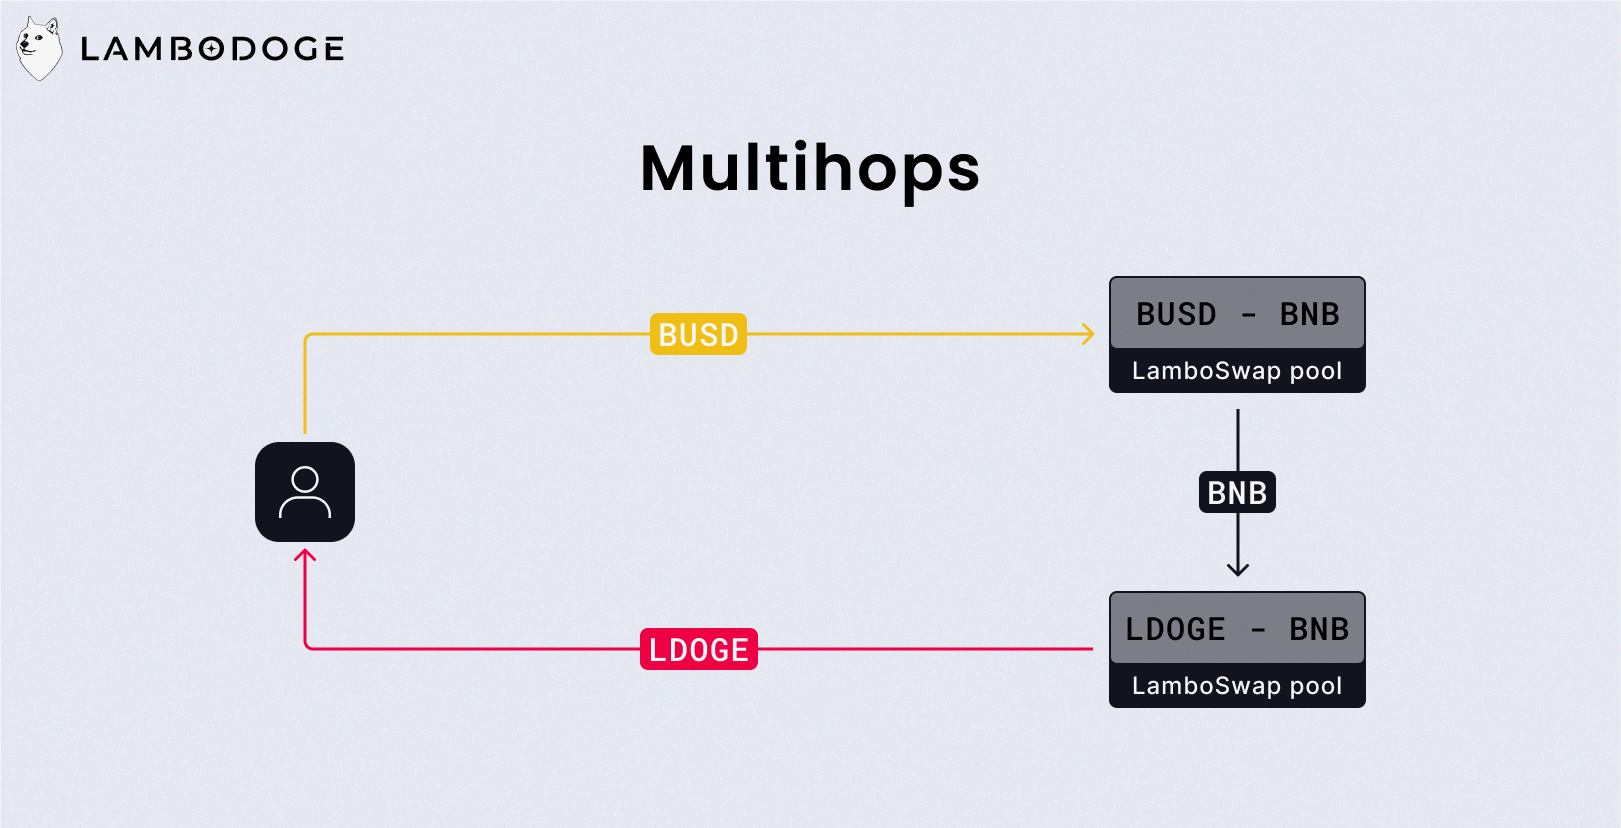
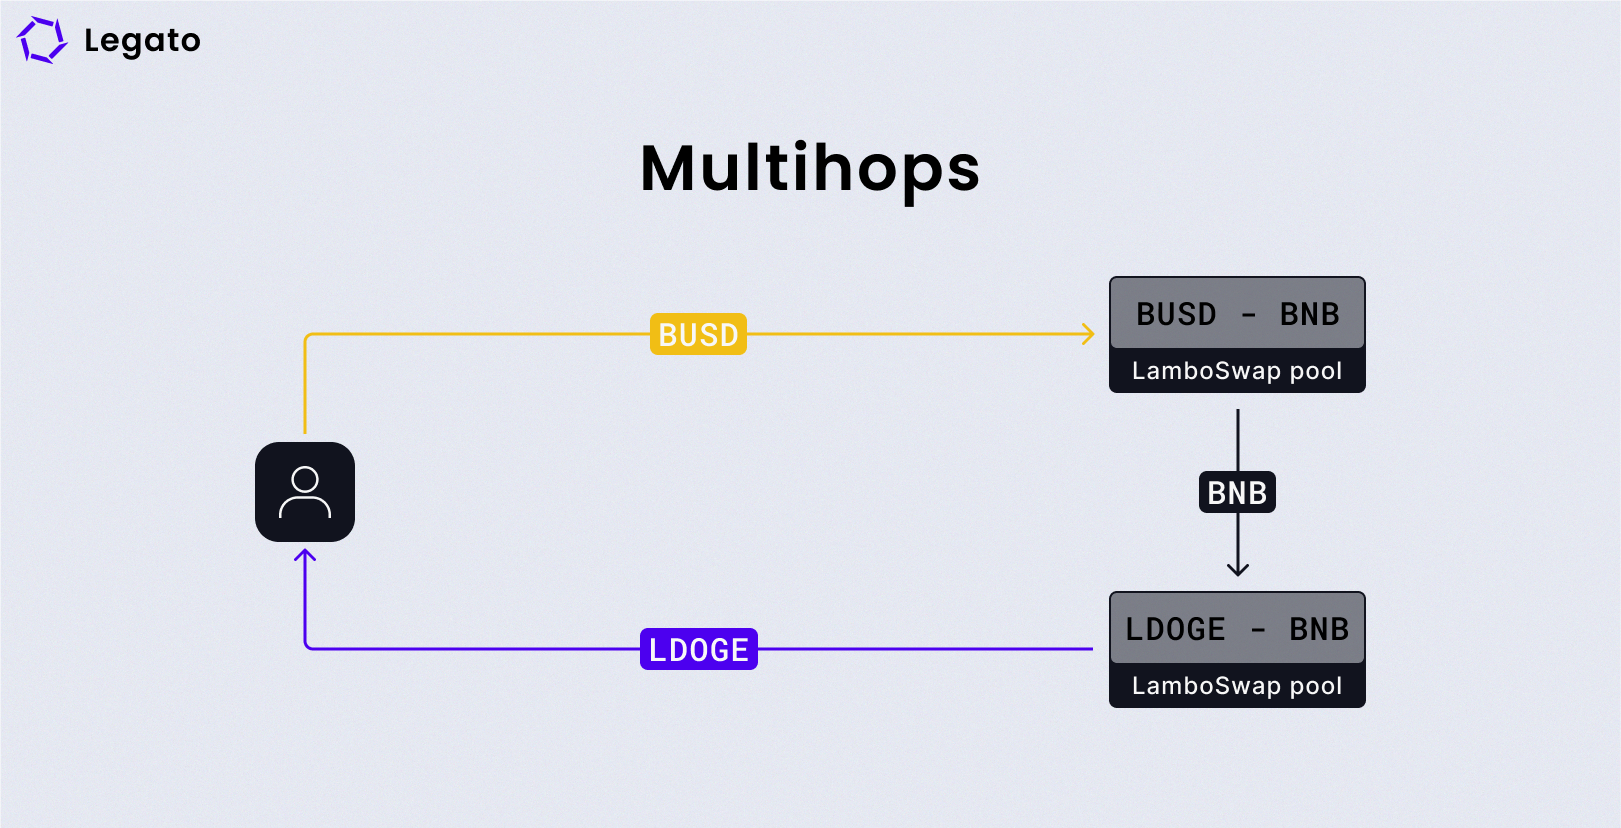
Legato rebranding

Changed region(s): [[0.1851, 0.7548, 0.6786, 0.8152], [0.0, 0.0, 0.2159, 0.0906], [0.1851, 0.6643, 0.2159, 0.6944]]

diff --git a/src/pages/index.jsx b/src/pages/index.jsx
@@ -99,8 +99,15 @@ const SocialLinksWrapper = styled.div`
     `}
 `
 
-const LamboIllustration = styled(Img)`
+const LegatoIllustrationWrapper = styled.div`
     max-width: 582px;
+    width: 100%;
+    display: flex;
+    justify-content: space-around;
+`
+
+const LegatoIllustration = styled(Img)`
+    max-width: 450px;
     width: 100%;
     flex-shrink: 0;
 `
@@ -114,9 +121,9 @@ const TokenDataSection = styled(Section)`
 const IndexPage = (props) => {
     const data = useStaticQuery(graphql`
         {
-            lamboIllustration: file(relativePath: { eq: "lambo.png" }) {
+            legatoIllustration: file(relativePath: { eq: "legato.png" }) {
                 childImageSharp {
-                    fluid(quality: 100, maxWidth: 1024) {
+                    fluid(quality: 100, maxHeight: 1024) {
                         ...GatsbyImageSharpFluid
                     }
                 }
@@ -148,11 +155,13 @@ const IndexPage = (props) => {
                 description="The new generation of automatic yield tokens"
             />
             <IntroSection>
-                <LamboIllustration
-                    imgStyle={{ objectFit: 'contain' }}
-                    width='582px'
-                    fluid={data.lamboIllustration.childImageSharp.fluid}
-                />
+                <LegatoIllustrationWrapper>
+                    <LegatoIllustration
+                        imgStyle={{ objectFit: 'contain' }}
+                        width='582px'
+                        fluid={data.legatoIllustration.childImageSharp.fluid}
+                    />
+                </LegatoIllustrationWrapper>
                 <div>
                     <Title>
                         {translateMessageId('slogan-top', intl)}<br/>
@@ -163,7 +172,7 @@ const IndexPage = (props) => {
                     </Subtitle>
                     <SocialLinksWrapper>
                         <a
-                            href='https://twitter.com/0xLamboDoge'
+                            href='https://twitter.com/LegatoFinance'
                             target='_blank'
                             rel='noreferrer'
                         >
@@ -204,6 +213,20 @@ const IndexPage = (props) => {
         </>
     )
 }
+
+const Address = styled.p`
+  width: fit-content;
+
+  br {
+    display: none;
+  }
+
+  ${({theme}) => theme.media.small`
+    br {
+      display: initial;
+    }
+  `}
+`
 
 const TokenSectionWrapper = styled(RowCentered)`
     gap: 4rem;
@@ -278,6 +301,8 @@ const TokenSection = () => {
             </SectionTitle>
             <TokenSectionWrapper>
                 <div>
+                    <h3>{translateMessageId('contract', intl)}</h3>
+                    <Address>0xc32C50FA1854D0C8dF9<br/>032e5887a57aa84783e8A</Address>
                     <h3>{translateMessageId('no-tax', intl)}</h3>
                     <p>
                         {translateMessageId('no-tax-description', intl)}

diff --git a/gatsby-config.js b/gatsby-config.js
@@ -7,9 +7,9 @@ const defaultLanguage = `en`
 
 module.exports = {
     siteMetadata: {
-        title: `LamboDoge`,
+        title: `Legato`,
         description: `The new generation of automatic yield tokens`,
-        author: `@LamboDoge`,
+        author: `@Legato`,
         menulinks: menu,
         siteUrl: `https://lambodoge.org`,
         defaultLanguage,
@@ -60,9 +60,9 @@ module.exports = {
                     }, {
                         resolve: `gatsby-remark-twitter-cards`,
                         options: {
-                            title: 'LamboDoge', // website title
+                            title: 'Legato', // website title
                             separator: '|', // default
-                            author: '@LamboDoge',
+                            author: '@Legato',
                             background: require.resolve('./static/images/twitter-card-bg.png'), // path to 1200x630px file or hex code, defaults to black (#000000)
                             fontColor: '#F7F7F7', // defaults to white (#ffffff)
                             fontStyle: 'sans-serif', // default
@@ -95,13 +95,13 @@ module.exports = {
         }, {
             resolve: `gatsby-plugin-manifest`,
             options: {
-                name: `LamboDoge Website`,
+                name: `Legato Website`,
                 short_name: `lamboDoge`,
                 start_url: `/`,
                 background_color: `#EF0044`,
                 theme_color: `#EF0044`,
                 display: `minimal-ui`,
-                icon: `src/images/lambodoge-icon.png`
+                icon: `src/images/legato-icon.png`
             },
         },
     ],

diff --git a/src/components/cards/index.jsx b/src/components/cards/index.jsx
@@ -1,7 +1,5 @@
 import React from 'react'
 import styled from 'styled-components'
-import BackgroundImage from 'gatsby-background-image'
-import { graphql, useStaticQuery } from 'gatsby'
 
 export const Card = styled.div`
     border-radius: 8px;
@@ -13,44 +11,6 @@ export const BlurredCard = styled(Card)`
     backdrop-filter: blur(12px);
 `
 
-const StyledVoidCard = styled(Card)`
-    padding: 0 1rem 1rem 1rem;
+export const VoidCard = styled(Card)`
+    background: radial-gradient(151.46% 48.57% at 50% 48.57%, rgba(76, 0, 239, 0.2) 0%, rgba(76, 0, 239, 0) 100%);
 `
-
-const VoidBackground = styled(BackgroundImage)`
-    height: 240px;
-    width: 100%;
-    filter: blur(6px);
-    background-size: 130%;
-    opacity: 0.5 !important;
-    z-index: -1;
-`
-
-const StyledCard = styled.div`
-    margin-top: -240px;
-    right: 0;
-    left: 0;
-    bottom: 0;
-    height: fit-content;
-`
-
-export const VoidCard = ({children}) => {
-    const data = useStaticQuery(graphql`
-        {
-            lambovoid: file(relativePath: { eq: "lambovoid.png" }) {
-                childImageSharp {
-                    fluid(quality: 100, maxWidth: 512) {
-                        ...GatsbyImageSharpFluid
-                    }
-                }
-            }
-        }
-    `)
-
-    return (
-        <StyledVoidCard>
-            <VoidBackground fluid={data.lambovoid.childImageSharp.fluid} />
-            <StyledCard>{children}</StyledCard>
-        </StyledVoidCard>
-    )
-}

diff --git a/src/components/seo.jsx b/src/components/seo.jsx
@@ -18,7 +18,7 @@ function Seo({ description, lang, title, path }) {
 
     const metaDescription = description || site.siteMetadata.description
     const defaultTitle = site.siteMetadata?.title
-    const lamboTitle = 'LamboDoge'
+    const legatoTitle = 'Legato'
 
     return (
         <Helmet
@@ -31,7 +31,7 @@ function Seo({ description, lang, title, path }) {
                     content: metaDescription
                 }, {
                     property: `og:title`,
-                    content: lamboTitle
+                    content: legatoTitle
                 }, {
                     property: `og:description`,
                     content: metaDescription
@@ -46,7 +46,7 @@ function Seo({ description, lang, title, path }) {
                     content: site.siteMetadata?.author || ``
                 }, {
                     name: `twitter:title`,
-                    content: lamboTitle
+                    content: legatoTitle
                 }, {
                     name: `twitter:description`,
                     content: metaDescription

diff --git a/src/components/header.jsx b/src/components/header.jsx
@@ -13,10 +13,9 @@ import MenuIcon from '../images/menu.inline.svg'
 import Logo from '../images/logo.inline.svg'
 import GlobeIcon from '../images/globe.inline.svg'
 import Carret from '../images/caret.inline.svg'
-import TextLogo from '../images/text-logo.inline.svg'
 
 const StyledHeader = styled.header`
-    z-index: 99;
+    z-index: 9999;
     display: flex;
     align-items: center;
     flex-direction: row;
@@ -39,9 +38,9 @@ const StyledHeader = styled.header`
     `}
 `
 
-const StyledTextLogo = styled(TextLogo)`
+const StyledTextLogo = styled.h3`
     display: none;
-    height: 16px;
+    font-size: 20px;
 
     ${({theme}) => theme.media.medium`
         display: initial;
@@ -274,7 +273,7 @@ const Header = ({pageContext}) => {
             <LogoLink to="/" >
                 <Logo/>
             </LogoLink>
-            <StyledTextLogo/>
+            <StyledTextLogo>Legato</StyledTextLogo>
             <NavLinks
                 open={isMenuOpen}
                 languageOpen={isLanguageSelectionOpen}

diff --git a/src/components/utils.jsx b/src/components/utils.jsx
@@ -3,7 +3,7 @@ import styled from 'styled-components'
 export const RadialCard = styled.div`
     z-index: -1;
     position: fixed;
-    background: ${({theme}) => `radial-gradient(circle at top left, ${theme.primary1}4D 0%, ${theme.primary1}00 40%)`};
+    background: ${({theme}) => `radial-gradient(circle at top left, ${theme.primary1}3A 0%, ${theme.primary1}00 40%)`};
     top: 0;
     left: 0;
     right: 0;

diff --git a/src/styles/theme/index.tsx b/src/styles/theme/index.tsx
@@ -30,8 +30,10 @@ export function colors(darkMode: boolean): Colors {
         white: '#ffffff',
         black: '#000000',
 
-        primary1: '#EF0044',
-        primary2: '#4518F9',
+        primary1: '#4C00EF',
+        primary2: '#D00CF0',
+
+        gradient1: 'linear-gradient(90deg, #4C00EF 0%, #D00CF0 100%)',
 
         bg1: '#11131E',
         bg2: '#00000080',

diff --git a/src/components/section.jsx b/src/components/section.jsx
@@ -65,7 +65,7 @@ export const SectionTitle = ({children, link = undefined, linkName = undefined})
     return (
         <StyledSectionTitle>
             <h2>
-                <span>LAMBODOGE</span>
+                <span>LEGATO</span>
                 {' '}
                 {children.toUpperCase()}
             </h2>

diff --git a/src/components/footer.jsx b/src/components/footer.jsx
@@ -33,7 +33,7 @@ const Footer = () => {
     return (
         <StyledFooter>
             <a
-                href='https://twitter.com/0xLamboDoge'
+                href='https://twitter.com/LegatoFinance'
                 target='_blank'
                 rel='noreferrer'
             >

diff --git a/src/components/button.jsx b/src/components/button.jsx
@@ -14,5 +14,5 @@ const BaseButton = styled.button`
 
 export const PrimaryButton = styled(BaseButton)`
     color: ${({theme}) => theme.text1};
-    background: ${({theme}) => theme.primary1};
+    background: ${({theme}) => theme.gradient1};
 `

diff --git a/src/components/mdx/taxSimulator.jsx b/src/components/mdx/taxSimulator.jsx
@@ -92,7 +92,7 @@ const SliderWrapper = styled.div`
 
 const StyledSlider = withStyles({
     root: {
-        color: '#EF0044',
+        color: '#4C00EF',
         height: 8,
     },
     thumb: {

diff --git a/src/styles/theme/styled.d.ts b/src/styles/theme/styled.d.ts
@@ -7,6 +7,8 @@ export interface Colors {
     primary1: string,
     primary2: string,
 
+    gradient1: string,
+
     bg1: string,
     bg2: string,
 
